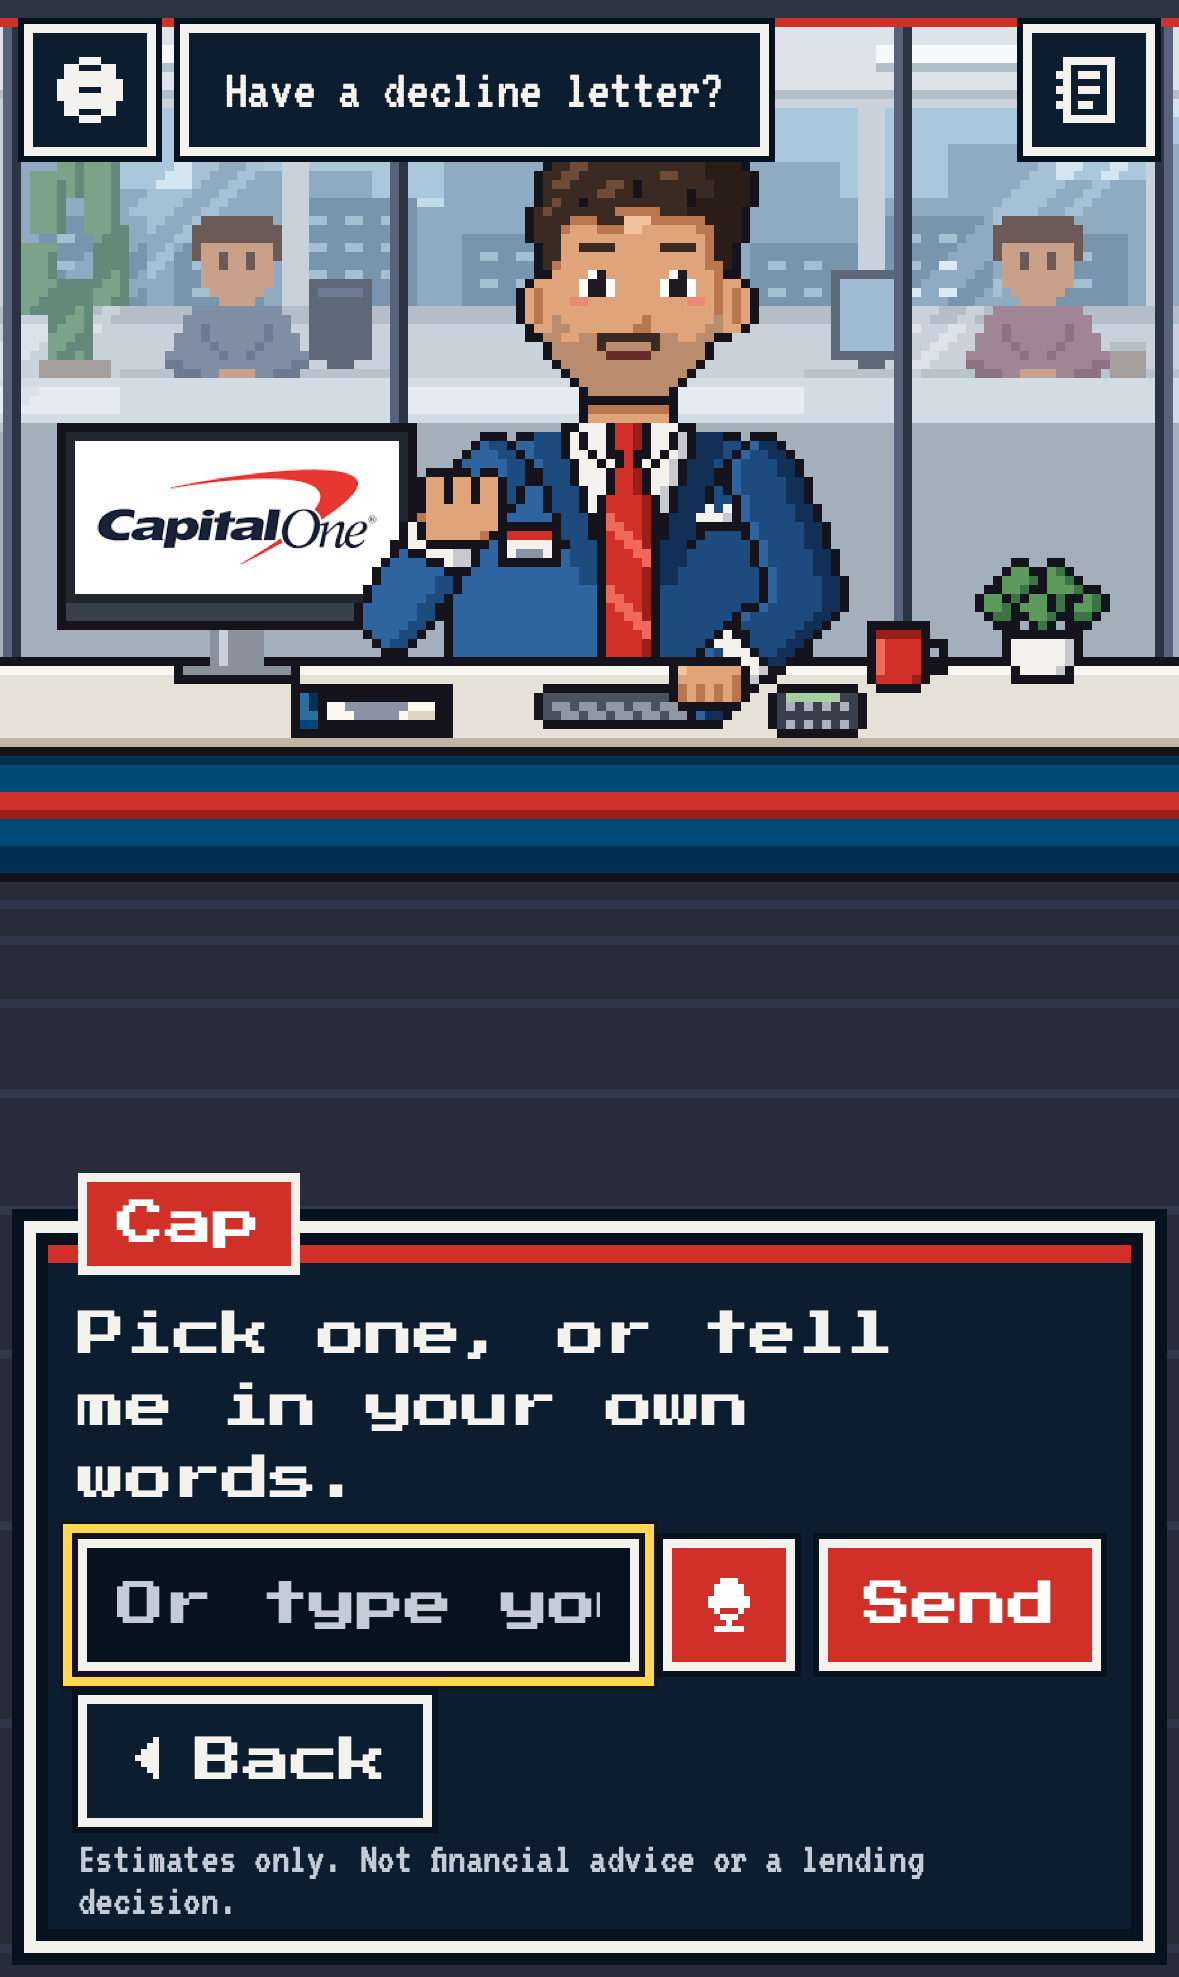
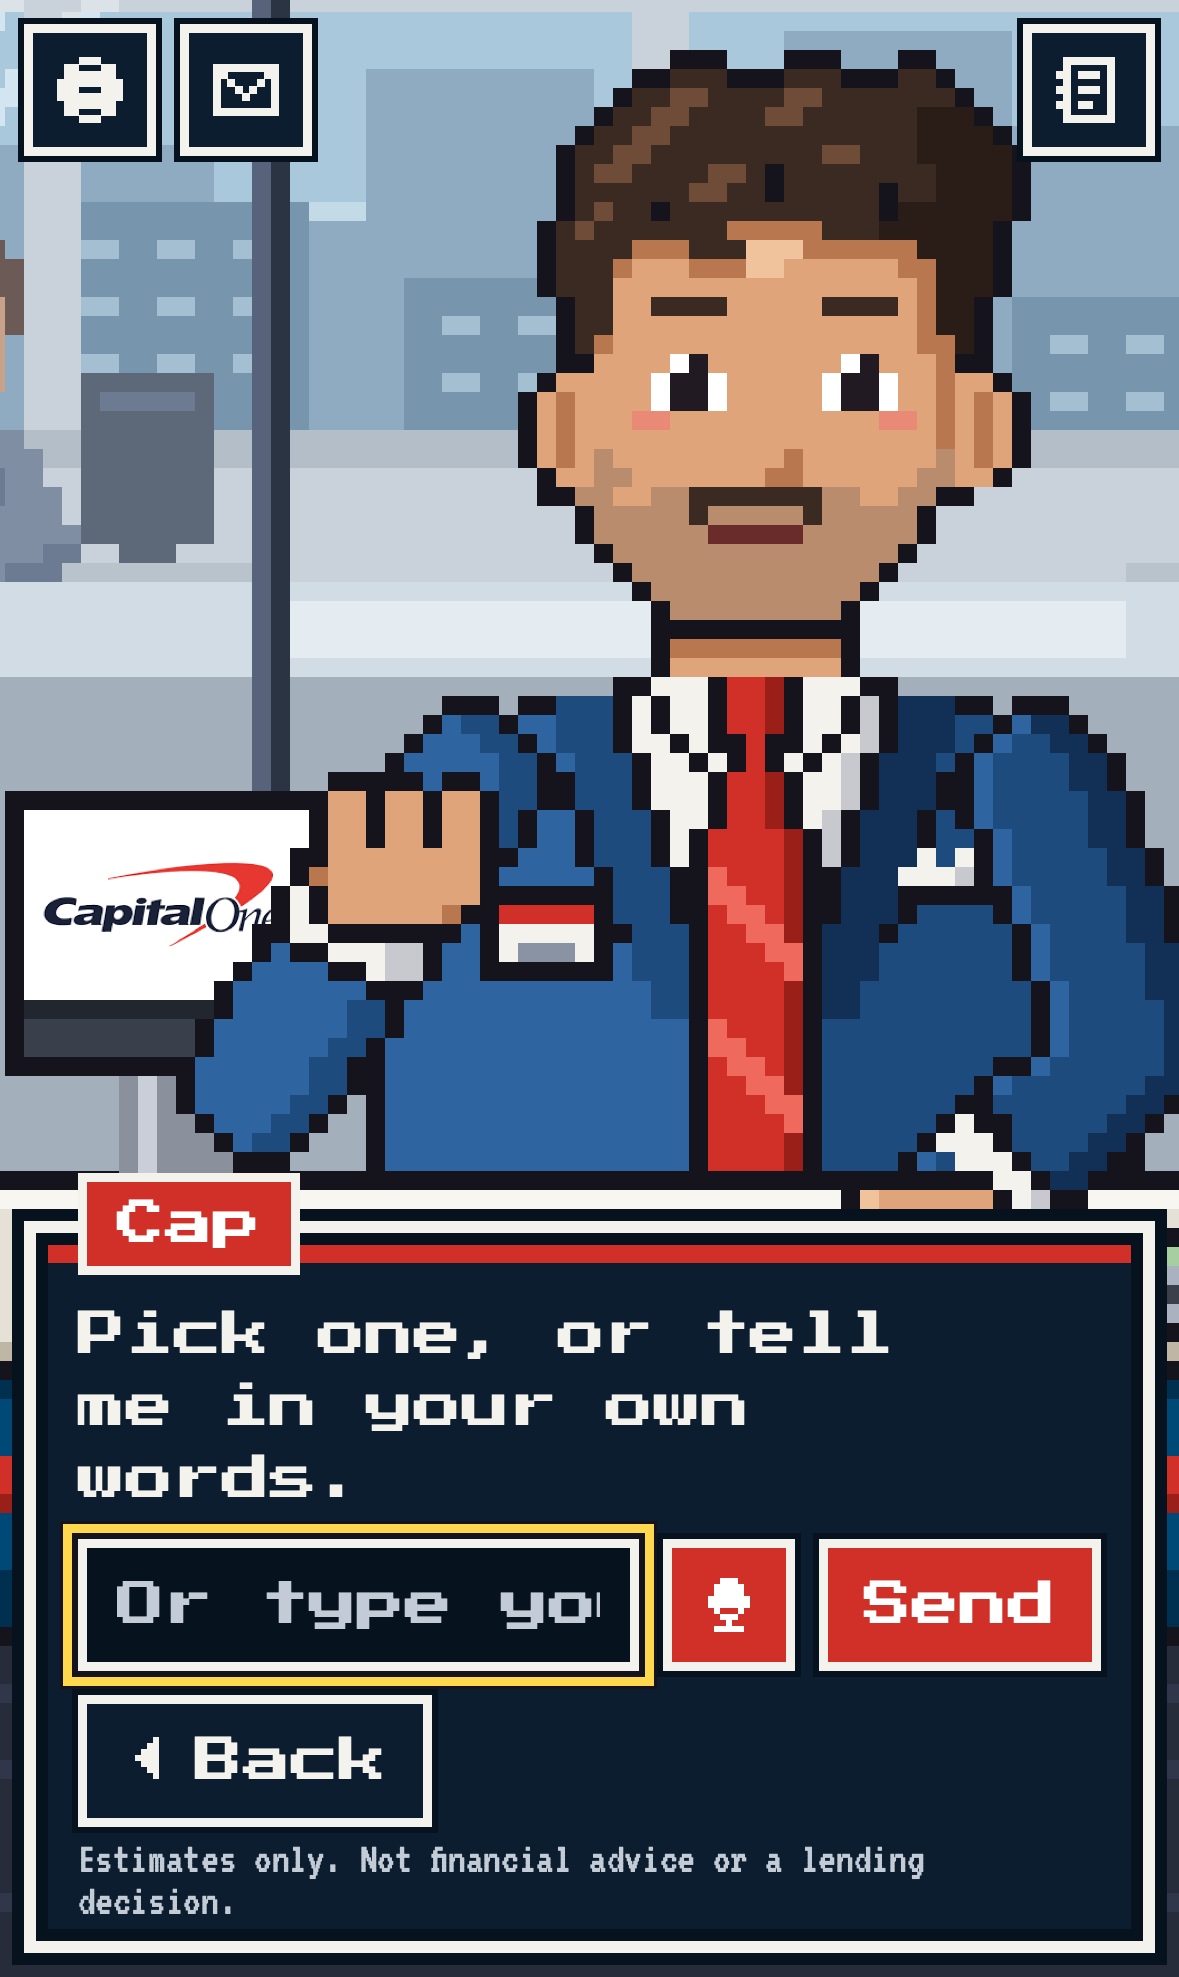
117: demo holds the paper and the Why? on the line's last page; demo script rewritten from the live run (20 taps, 1:48 robot); tray check taps the tray while the box is at rest; 117 screens

diff --git a/app/frontend/src/App.tsx b/app/frontend/src/App.tsx
@@ -469,8 +469,9 @@ export default function App() {
 
   // ---------- 117: Demo mode moves on by itself ----------
   // Each page waits a reading pause (250 ms a word, at least 1.2 s; at least 2.5 s with an item window), then
-  // goes on. It stops only where the presenter acts: choices (the turn waits for an answer), the paper (until
-  // it has been opened), the business card, and the first reason's Why? (until Why? has been opened). A sheet,
+  // goes on. It stops only where the presenter acts: choices (the turn waits for an answer), the paper (on the
+  // line's last page, until it has been opened), the business card, and the first reason's Why? (on that line's
+  // last page, until Why? has been opened). A sheet,
   // the notebook or a Why? drawer open pauses it; with read aloud on it waits for the voice. A tap still skips.
   const paperOpened = useRef<string | null>(null)
   const whyStop = useRef<{ run: number; key: string | null; done: boolean }>({ run: -1, key: null, done: false })
@@ -488,9 +489,9 @@ export default function App() {
       ? null
       : lastPage && !state.queue.length && state.expects?.kind !== 'none'
         ? null // choices, a file, typing: the presenter answers
-        : current.msg.kind === 'paper' && paperOpened.current !== current.key
+        : current.msg.kind === 'paper' && lastPage && paperOpened.current !== current.key
           ? null
-          : whyStop.current.key === current.key && !whyStop.current.done
+          : whyStop.current.key === current.key && lastPage && !whyStop.current.done
             ? null
             : Math.max(windowMsg ? 2500 : 1200, 250 * (pages[page] ?? '').split(/\s+/).filter(Boolean).length)
   useEffect(() => {

diff --git a/deliverables/pitch/demo-script.md b/deliverables/pitch/demo-script.md
@@ -1,29 +1,44 @@
-# Demo script: about 2 minutes 30 on the iPhone
+# Demo script: about 2 minutes, 20 taps, on the iPhone
 
-Before judging: `pnpm dev` from the repo root, phone on the same network as the laptop (or the hotspot), opened on the frontend's `Network:` URL. Backend warm (one full declined walk with Priya). Demo mode ON (instant text, Priya is picked for every sample). Plain English and read aloud OFF (they go on at 0:05 and 2:00). Ring/silent switch off and volume up: iPhone mutes the web voice in silent mode. Backups: `DEMO_OFFLINE=true` (every answer path of the declined branch is cached in Claude's words), then the recorded video.
+Before judging:
+- `pnpm dev` from the repo root, phone on the hotspot, opened on the frontend's `Network:` URL. Backend warm (one full declined walk with Priya).
+- In Settings (the gear, top left): **Demo mode ON**, **Plain English ON**, read aloud OFF, Camera **B** (the default). Then Start again.
+- Ring/silent switch off and volume up, for the optional read-aloud beat (iPhone mutes the web voice in silent mode).
+- Backups: `DEMO_OFFLINE=true` (every answer path of the declined branch is cached in Claude's words), then the recorded video.
 
-Words in quotes are what Cap says on this path (Priya, declined branch, Plain English on), from the real backend on 2026-11-07. The plan starts on Monday 9 Nov 2026; re-check the dates and numbers at freeze.
+**117: Cap is close now.** He fills the screen: waist up, his hands on the keyboard, the Capital One monitor beside him, his words in the box at the bottom.
 
-116 game screen: Cap's words come up in the dialogue box at the bottom, a few lines a page. A blinking ▼ means there is more: tap **Next** (or the box) for the next page or line. Tap counts below are from a real run on the live stack (2026-11-07, `demo116.mjs`, iPhone 15 profile). Settings is the gear, **top left**; the notebook (history and plan) is top right.
+**Demo mode moves on by itself**, page by page:
+- Each page waits about a quarter of a second a word: at least 1.2 s, and at least 2.5 s when an item window is up.
+- It stops only where you act: a choice, the paper on the desk, the business card, and the first reason's **Why?**.
+- Tap **Next** (or the box) to go faster. **Skip all** jumps to the end of what he is saying.
 
-| Time | Do | Judges see | Say |
+Words in quotes are Cap's lines on this path (Priya, declined branch, Plain English on). They come from the real backend, walked on 2026-11-08 with `demo117.mjs` (WebKit, iPhone 15 profile). The plan starts on Monday 9 Nov 2026; re-check the dates and numbers at freeze.
+
+Taps are numbered. Times are from the real run, with a robot tapping at once; leave about 15 to 20 s more for your own taps.
+
+| Time | Do (taps) | Judges see | Say |
 |---|---|---|---|
-| 0:00 | Open the app (or Settings → Start again) | Cap at the Capital One desk: "Hi, nice to meet you. My name's Cap, here's my card." He slides it across the desk and it fills the screen: the Capital One logo, his portrait, **Cap**, **Credit Coach**, "Here to make your credit make sense" | "This is Cap, a credit coach at the Capital One desk. Today he's helping Priya: 23, renting, one card. Capital One just turned her down for a Balance Transfer card, and the letter doesn't say why." |
-| 0:05 | Tap "Put the card away". Gear (top left) → Plain English on → close | The settings sheet opens and closes | (keep going with the 0:00 line) |
-| 0:12 | Tap "Nice to meet you, Cap!", Next ×2 | "Nothing we do here is a credit search, so it can't harm your score." Then "I understand you're here to make your credit better." / "Where should we start?" with four choices in the menu | "He starts where she is. People come declined, with a report, getting ready to apply, or new to credit." |
-| 0:18 | Tap "I've been declined already" | "Oh, I'm sorry. That's frustrating, and the letter rarely says why." / "Let's work it out together." | |
-| 0:20 | Next ×3, Use a sample; Next ×3, Use a sample; Next ×3, Use a sample (the letter, her report, her bank data) | "Have you got the letter they sent? Hand it over and I'll tell you what most likely happened." He takes each one: "Thanks, that's your Capital One letter." / "Thanks, Priya. I've got your Experian report." / "Your score there is 700 out of 999." / "Next, three months of your bank statement" | "She hands over the letter, her Experian report and three months of bank data. Real uploads work too." |
-| 0:35 | Next ×11: her budget, the decline, the fix, when to reapply, her rights | "Got it. After rent, bills and the basics you have about £290 a month left over." Then "About your Capital One letter. It didn't give a reason, so I've worked out the most likely ones from your report." with a **Why they said no** window: Capital One, most likely high credit utilisation. Then "The one fix that matters most: get your cards under 30% (£348 or less)." / "Pay £175 extra this month, then £215 a month." Then "Don't apply again before Jul 2027." / "Run Capital One QuickCheck first. It's a soft search…" Then her rights | "First, why she was declined: likely reasons, ranked. The one fix that matters most, and when to try again: not before July 2027, and only after a soft-search QuickCheck." |
-| 0:55 | Tap "What can I do?", Next ×11 | "Here's where to start. Three steps work on those reasons:" then, in Claude's plain words, each with a **Step** window (date and title): a Direct Debit on her Barclaycard on 9 Nov 2026, £175 extra off it on 8 Dec 2026, QuickCheck for the Classic on 9 Jan 2027 | "Then concrete steps, with her own dates and amounts." |
-| 1:07 | Tap "The Balance Transfer card", "3 months", Next, "Yes, I can", Next, "No" | "Now, what would you like to aim for? Pick one, or tell me in your own words." / "And how soon? I can plan for the next 3 months or the next 6." / "Your report says you're not on the electoral roll at your current address. Can you register to vote there?" / "You pay the minimum on your Barclaycard each month. Is that set up as a Direct Debit?" | "Four questions: her goal, how soon, and two things he spotted in her data." |
-| 1:17 | (he thinks; demo mode moves on, page by page) | "Thanks! Give me a moment to build your plan towards the Balance Transfer card." | "Plain English has been on since the start, so every line is in everyday words." |
-| 1:22 | Next ×4, then tap **Why?** on the reason window above the box; close it; Next ×9 | "Two things are holding you back most right now: how much of your card limit you use, and how well lenders can confirm who you are and that you're settled." / "Here's what's holding your score back, worst first." Then "You're using 79% of your £1,200 total limit (£950)." with the **Reason 1** window: Credit utilisation, **Problem**, a 10-block health bar, "79% of your £1,200 limit used". The because drawer: the rule, her data, the source | "Every number has a because: her own data, the rule, and where the rule comes from." |
-| 1:40 | Tap "Sum it up for me", Next (tap the sheet on the desk, or **Read it** in the window, to open it) | Cap slides the summary across the desk: "Here's all of that on one sheet. Tap it to read it, or take a copy with you." | "He hands her the summary to keep, as a PDF." |
-| 1:46 | Tap "Make me a plan", Next, "3 months", Skip all | 12 dated steps, week by week. "If you stick to it, your Experian score could be 735 to 836 by Feb 2027." with the **Estimate** window and its tiny chart. The card ladder: Capital One Classic from Jan 2027. Then "Now ask me anything that starts with "what if"." | "A dated plan with her own numbers. Estimated range at three months: 735 to 836, up from 700." |
-| 1:56 | Tap "Type or say my own", type or say "what if I pay 300 a month?", Send, Next | "Paying £300 extra a month: by Feb 2027 your score could be 743 to 848, up from 735 to 836. An estimate. You'd get under 30% by Jan 2027." with the **What if** window: 735 to 836 → 743 to 848 | "She can ask what if, in her own words." |
-| 2:06 | Gear → Read replies aloud on → close. He says "I'll read my replies aloud." Tap "What if I pay £400 a month?" | He reads the whole answer aloud (about 10 seconds): "Paying £400 extra a month: by Feb 2027 your score could be 747 to 854, up from 735 to 836. An estimate. You'd get under 30% by Jan 2027." | (say nothing until he finishes) |
-| 2:20 | End. Optional: tap the notebook (top right) → **Your plan** | Every card so far in Cap's notebook | "Plain English, read aloud, voice in, colour-safe modes. Credit made understandable, one conversation at a time." |
+| 0:00 | Open the app (or Settings → Start again). **1** Put the card away | Cap at the Capital One desk: "Hi, nice to meet you. My name's Cap, here's my card." He slides it across the desk and it fills the screen: the logo, his portrait, **Cap**, **Credit Coach**, "Here to make your credit make sense" | "This is Cap, a credit coach at the Capital One desk. Today he's helping Priya: 23, renting, one card. Capital One just turned her down for a Balance Transfer card, and the letter doesn't say why." |
+| 0:04 | **2** "Nice to meet you, Cap!" | (by itself) "Nothing we do here is a credit search, so it can't harm your score." / "I understand you're here to make your credit better. Where should we start?" with four choices | "He starts where she is: declined, with a report, getting ready, or new to credit." |
+| 0:10 | **3** "I've been declined already" | "Oh, I'm sorry. That's frustrating, and the letter rarely says why. Let's work it out together." / "Have you got the letter they sent?" | |
+| 0:18 | **4, 5, 6** Use a sample, once each time he asks (the letter, her report, her bank data) | He takes each one: "Thanks, that's your Capital One letter." / "Thanks, Priya. I've got your Experian report." / "Your score there is 700 out of 999." / "Got it. After rent, bills and the basics you have about £290 a month left over." | "She hands over the letter, her Experian report and three months of bank data. Real uploads work too: drop a file on his tray." |
+| 0:40 | (by itself, about 27 s) | "About your Capital One letter. It didn't give a reason, so I've worked out the most likely ones from your report." with the **Why they said no** window: Capital One, most likely high credit utilisation. Then "The one fix that matters most: get your cards under 30% (£348 or less)." / "Pay £175 extra this month, then £215 a month." / "Don't apply again before Jul 2027." / "Run Capital One QuickCheck first. It's a soft search…" / her rights | "First, why she was declined: likely reasons, ranked. The one fix that matters most, and when to try again: not before July 2027, and only after a soft-search QuickCheck." |
+| 1:07 | **7** "What can I do?", **8** Skip all | "Here's where to start. Three steps…" (dated steps; Skip all goes to the goals question) | "Then concrete steps, with her own dates and amounts." |
+| 1:08 | **9** "The Balance Transfer card", **10** "3 months", **11** "Yes, I can", **12** "No" | "Now, what would you like to aim for?" / "And how soon? I can plan for the next 3 months or the next 6." / "Your report says you're not on the electoral roll at your current address. Can you register to vote there?" / "You pay the minimum on your Barclaycard each month. Is that set up as a Direct Debit?" | "Four questions: her goal, how soon, and two things he spotted in her data." |
+| 1:17 | (by itself, about 13 s) | "Thanks! Give me a moment to build your plan towards the Balance Transfer card." Then "Two things are holding you back most right now…" / "Here's what's holding your score back, worst first." He **stops** on "You're using 79% of your £1,200 total limit (£950)." with the **Reason 1** window: Credit utilisation, **Problem**, a 10-block health bar, "79% of your £1,200 limit used", **Why?** | "Every number has a because: her own data, the rule, and where the rule comes from. That's behind Why?." |
+| 1:30 | **13** Skip all, **14** "Sum it up for me" | "Here's all of that on one sheet. Tap it to read it, or take a copy with you." Cap slides the summary onto the desk and **stops** | "He hands her the summary to keep, as a PDF." |
+| 1:36 | **15** Tap the sheet on the desk (or **Read it** in the window), **16** close it | The one-page summary | |
+| 1:44 | **17** "Make me a plan", **18** "3 months", **19** Skip all | "Right, let's make you a plan." / "Here's your 3-month plan: 12 steps, week by week." Skip all goes to the end: the estimate and the next card, then "For example: what if I pay £300 a month?" | "A dated plan with her own numbers, 12 steps, week by week." |
+| 1:46 | **20** "What if I pay £400 a month?" | "Paying £400 extra a month: by Feb 2027 your score could be 747 to 854, up from 735 to 836. An estimate. You'd get under 30% by Jan 2027." with the **What if** window | "She can ask what if. Plain English, read aloud, voice in, colour-safe modes. Credit made understandable, one conversation at a time." |
+| 1:51 | End. Optional: the notebook (top right) → **Your plan** | Every card so far in Cap's notebook | |
 
-Every tap is listed (77 in all, from the real run): **Next** shows the next page of a line or the next line; **Skip all** jumps to the last page of the turn's last line. Demo mode moves on by itself only where Cap expects nothing (after "Give me a moment"), page by page. Menus that do not fit show **More**; every choice the script taps is on the first page on the iPhone 15.
+**Taps**: 20, all listed above (from the real run: `TOTAL 20 taps, 108.2s`). The run took 1:48 with a robot tapping at once, so about 2:05 with your own taps. Every choice the script taps is on the first page of its menu on the iPhone 15.
 
-If short of time: skip the Why? drawer at 1:22 (about 8 seconds) and use **Skip all** instead of the Next taps at 0:35, 0:55 and after Why? at 1:22 (each item window then shows only the last line's item).
+Optional beats, if there is time:
+- **Why? at 1:30** (+2 taps, about 8 s): tap **Why?** on the Reason 1 window, show the because drawer (the rule, her data, the source), close it. Demo mode then moves on by itself; tap Skip all as before.
+- **Typed what-if** (+2 taps): "Type or say my own", type or say "what if I pay 300 a month?", Send.
+- **Read aloud** (+3 taps, before the £400 tap): gear → Read replies aloud on → close. He reads the whole £400 answer aloud (about 10 seconds); Demo mode waits for the voice.
+- **Steps in full** (no Skip all at 1:07): about 25 s more of dated steps.
+
+If short of time: let Demo mode run and say less; the taps stay the same. If Demo mode is off, every page needs its own Next tap (116 needed 77 taps in all): turn it on.
